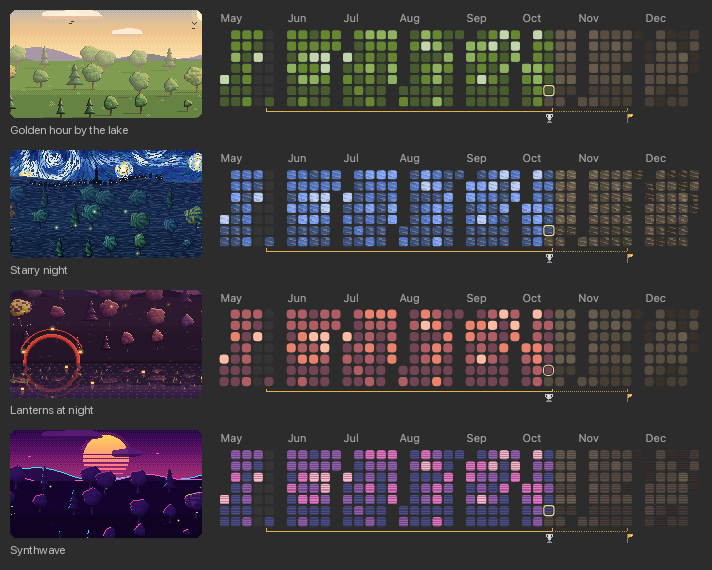
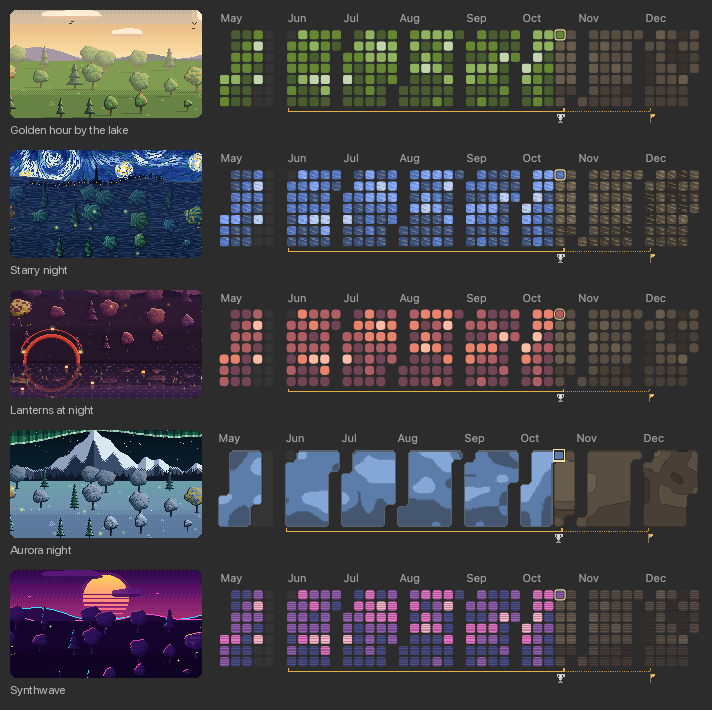
docs: add contours to docs images

diff --git a/docs/ankiweb.html b/docs/ankiweb.html
@@ -95,7 +95,7 @@ Hover for details; click a day to open its cards.
 <li><b>Your look</b>: customize its colours and style in the Heatmap tab.</li>
 </ul>
 
-<div><img src="https://raw.githubusercontent.com/baraklevy20/memory-forest/main/docs/heatmap_sceneries.png" alt="The same heatmap in four sceneries: green by the lake, blue brushstrokes in Starry night, round tiles in Lanterns, and violet to pink scanlines in Synthwave"></div>
+<div><img src="https://raw.githubusercontent.com/baraklevy20/memory-forest/main/docs/heatmap_sceneries.png" alt="The same heatmap in five sceneries: green by the lake, blue brushstrokes in Starry night, round tiles in Lanterns, blue contours in Aurora night, and violet to pink scanlines in Synthwave"></div>
 <div>&nbsp;</div>
 <b>On your phone</b>
 <div><img src="https://raw.githubusercontent.com/baraklevy20/memory-forest/main/docs/phone.gif" alt="The forest filling a phone screen, turned sideways, animated"></div>

diff --git a/dev/docs_pictures.py b/dev/docs_pictures.py
@@ -6,7 +6,7 @@ copy's scripts in headless Chrome. Uses made-up history unless --collection is s
 
 heatmap.png: the forest by the lake with its heatmap under it, visible streak labels,
 the current streak's silver trophy, its next goal's flag, and an upcoming exam note.
-heatmap_sceneries.png: one heatmap in four sceneries, each beside its picker picture, with
+heatmap_sceneries.png: one heatmap in five sceneries, each beside its picker picture, with
 its current trophy and flag and no other streak markers. Needs Chrome, and node with the dev packages.
 """
 
@@ -52,12 +52,12 @@ STREAKS = ((0, 139), (150, 209), (230, 409))
 SCATTER = 0.35  # (the share of the days studied outside a streak)
 SEED = 20261016
 # each row: its scenery, the tile style (None: the scenery's own) and the view, all Timeline so the
-# rows line up and show the same days, cropped to eight months, May to December (2026-10-17). A
-# fifth row showing Contours (Aurora, By year) was tried and dropped: a whole year shifted and
-# squeezed against the others, Timeline chopped the shape at the month gaps, and a wider By year made
-# a taller row.
+# rows line up and show the same days, cropped to eight months, May to December (2026-10-17). Aurora
+# shows Contours here only, in Timeline like the rest (2026-10-19), not its own tiles: By year shifted
+# and squeezed a whole year against the others, and a wider By year made a taller row.
+# (Aurora's blue apart from Starry night's)
 ROWS = (("golden_lake", None, "timeline"), ("starry_night", None, "timeline"), ("lanterns", None, "timeline"),
-        ("synthwave", None, "timeline"))
+        ("aurora", "contours", "timeline"), ("synthwave", None, "timeline"))
 SCENERIES = tuple(key for key, _tiles, _view in ROWS)
 
 
@@ -178,13 +178,13 @@ for (const j of jobs) {
   await new Promise(r => setTimeout(r, 1500));
   const el = await p.$(j.shoot);
   if (j.fromMonth !== undefined) {
-    const clip = await el.evaluate((e, month) => {
+    const clip = await el.evaluate((e, month, pad) => {
       const r = e.getBoundingClientRect();
       const start = e.querySelector(`.af-cal-months span[data-m="${month}"]`);
       if (!start) throw new Error('Comparison start month is outside the timeline');
-      const x = Math.max(r.left, Math.floor(start.getBoundingClientRect().left) - 2);
+      const x = Math.max(r.left, Math.floor(start.getBoundingClientRect().left) - pad);
       return { x, y: r.top, width: r.right - x, height: r.height };
-    }, j.fromMonth);
+    }, j.fromMonth, j.pad === undefined ? 2 : j.pad);
     await p.screenshot({ path: j.out, clip });
   } else {
     await el.screenshot({ path: j.out });
@@ -262,7 +262,9 @@ def main() -> None:
                 f.write(page(mood, data, 756, ".af-cal .af-cal-above { opacity: 1 } .af-cal-foot, .af-cal-notes { display: none }"))
             shots[key] = os.path.join(tmp, f"{key}.png")
             # (from May's label, eight months; By year's January: the weekday labels left out)
-            jobs.append({"page": path, "width": 800, "shoot": ".af-cal", "fromMonth": 0 if view == "by_year" else 4, "out": shots[key]})
+            # (Contours outlines the month before right up to the cut: none of it shown)
+            jobs.append({"page": path, "width": 800, "shoot": ".af-cal", "fromMonth": 0 if view == "by_year" else 4,
+                         "pad": 0 if tiles == "contours" else 2, "out": shots[key]})
         shoot(jobs)
         sceneries_picture(shots, os.path.join(DOCS, "heatmap_sceneries.png"))
     print("docs/heatmap.png, docs/heatmap_sceneries.png")

diff --git a/README.md b/README.md
@@ -98,7 +98,7 @@ Hover for details; click a day to open its cards.
 - **Week start**: Monday, Sunday, Saturday or your system's setting.
 - **Your look**: customize its colours and style in the Heatmap tab.
 
-<p align="center"><img src="docs/heatmap_sceneries.png" alt="The same heatmap in four sceneries: green by the lake, blue brushstrokes in Starry night, round tiles in Lanterns, and violet to pink scanlines in Synthwave"></p>
+<p align="center"><img src="docs/heatmap_sceneries.png" alt="The same heatmap in five sceneries: green by the lake, blue brushstrokes in Starry night, round tiles in Lanterns, blue contours in Aurora night, and violet to pink scanlines in Synthwave"></p>
 
 ## On your phone
 
